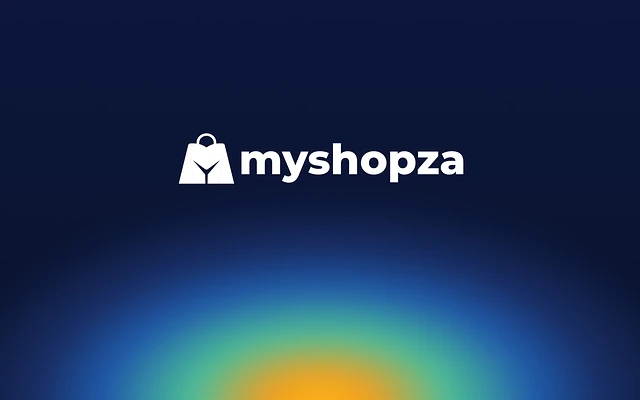
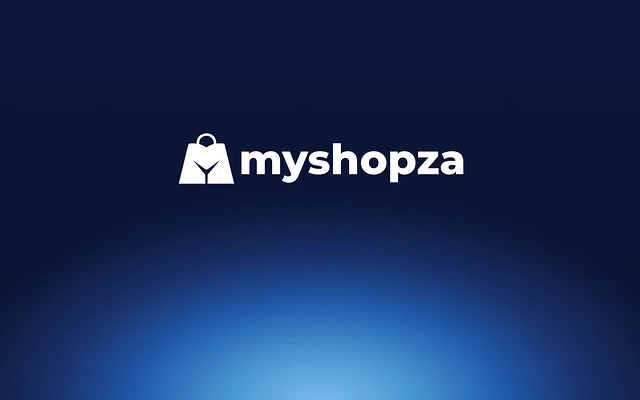
Auto-sync: update 20 file(s)
assets/images/projects/myshopza/cover-info.json assets/images/projects/myshopza/cover.webp assets/images/projects/myshopza/cover@1400.webp assets/images/projects/myshopza/cover@2000.webp assets/images/projects/myshopza/cover@640.webp

Changed region(s): [[0.1875, 0.72, 0.8125, 1.0]]

diff --git a/projects/myshopza.html b/projects/myshopza.html
@@ -258,12 +258,12 @@ symbol .mz-wm .mz-b,symbol .mz-wm .mz-n{fill:var(--lt,#22428d)}symbol .mz-wm .mz
       <p class="cs-outcome"><b>Outcome</b> A logo for Myshopza's e-commerce software: a shopping bag that also reads as an M, delivered with light and dark lockups, app icons and favicons.</p>
       <div class="cs-meta"><span>Logo</span><span>Brand identity</span><span>UX/UI design</span></div>
     </section>
-    <div class="cs-shot" data-slide style="view-transition-name:shot-myshopza;view-transition-class:shot"><img src="/assets/images/projects/myshopza/cover.webp" width="3840" height="2400" alt="The white Myshopza logo on deep navy, above a soft glow in the logo colours: blue, green and yellow" fetchpriority="high" decoding="sync" /></div>
+    <div class="cs-shot" data-slide style="view-transition-name:shot-myshopza;view-transition-class:shot"><img src="/assets/images/projects/myshopza/cover.webp" width="3840" height="2400" alt="The white Myshopza logo on deep navy, above a soft blue glow" fetchpriority="high" decoding="sync" /></div>
 
     <!-- The brand presentation -->
     <div class="mz-deck"><section class="mz-sl mz-txt mz-ov"><div class="mz-in"><div><span class="mz-k">Overview</span><h2 class="mz-h">A logo for software that helps <em>businesses sell.</em></h2><p class="mz-p">Myshopza is an e-commerce software product: businesses use it to run their online store. The logo had to say "shopping" at a glance, feel approachable to small business owners, and stay sharp from a billboard down to a 16-pixel browser tab.</p><p class="mz-p">The answer is one mark that reads two ways: a shopping bag, and the letter M.</p></div><dl class="mz-facts"><div><dt>Product</dt><dd>Myshopza, e-commerce software</dd></div><div><dt>Scope</dt><dd>Logo, colour palette, lockups, app icons and favicons; UX/UI design for the product</dd></div><div><dt>Deliverables</dt><dd>Horizontal, vertical and symbol logos in light and dark; icon set for iOS, Android and web</dd></div><div><dt>Tools</dt><dd>Adobe Illustrator</dd></div></dl></div><span class="mz-no-g">01</span></section><section class="mz-sl mz-ana-s"><div class="mz-in"><span class="mz-k">The symbol</span><h2 class="mz-h">Read it <em>two ways.</em></h2><div class="mz-ana"><svg class="mz-lg" viewBox="0 0 114.29 112.91" role="img" aria-label="Myshopza symbol"><use href="#lg-s"/></svg></div><p class="mz-call mz-c1"><b>Bag handle</b>The arc on top turns the M into a shopping bag.</p><p class="mz-call mz-c2"><b>Two folds</b>Blue on the left, yellow on the right, crossing like a bag's sides.</p><p class="mz-call mz-c3"><b>Letter M</b>The inner panels meet in a V, the middle of the M.</p><p class="mz-call mz-c4"><b>Four colours</b>One family of colours for many kinds of business.</p></div><span class="mz-no-g">02</span></section><section class="mz-sl mz-txt mz-grid mz-dark"><div class="mz-in"><div class="mz-two"><div><span class="mz-k">Construction</span><h2 class="mz-h">Built on <em>one centre line.</em></h2><ul class="mz-list"><li>The handle is a single arc, centred over the bag.</li><li>Both folds start at the top corners and cross on the centre line.</li><li>The two halves mirror each other, so the M stands straight at any size.</li></ul></div><div></div></div><div class="mz-con"><svg viewBox="-12 -12 138.29 136.91" aria-label="Myshopza symbol on its construction grid"><rect class="mz-gs" x="0" y="0" width="114.29" height="112.91"/><line class="mz-gs" x1="57.15" y1="-8" x2="57.15" y2="121"/><line class="mz-gs" x1="-8" y1="52.19" x2="122" y2="52.19"/><line class="mz-gs" x1="-8" y1="19.64" x2="122" y2="19.64"/>
 <circle class="mz-gd" cx="57.12" cy="19.5" r="18.9"/><line class="mz-gd" x1="24.8" y1="19.64" x2="68.5" y2="56"/><line class="mz-gd" x1="89.47" y1="19.64" x2="45.8" y2="56"/><line class="mz-gd" x1="0" y1="112.91" x2="25.9" y2="52.19"/><line class="mz-gd" x1="114.29" y1="112.91" x2="88.38" y2="52.19"/>
-<use href="#lg-s" x="0" y="0" width="114.29" height="112.91"/><text x="78" y="7">handle arc</text><text x="-11" y="50.5">fold line</text></svg></div></div><span class="mz-no-g">03</span></section><section class="mz-sl mz-txt"><div class="mz-in"><span class="mz-k">Explorations</span><h2 class="mz-h">Three directions, <em>one bag.</em></h2><div class="mz-ex"><figure><figcaption>Direction 1</figcaption><img src="/assets/images/projects/myshopza/explore-1.webp" alt="Explored Myshopza logo direction 1" /></figure><figure><figcaption>Direction 2</figcaption><img src="/assets/images/projects/myshopza/explore-2.webp" alt="Explored Myshopza logo direction 2" /></figure><figure><figcaption>Direction 3</figcaption><img src="/assets/images/projects/myshopza/explore-3.webp" alt="Explored Myshopza logo direction 3" /></figure><figure class="mz-fin"><figcaption>Final</figcaption><svg class="mz-lg" viewBox="0 0 444.25 91.35" role="img" aria-label="Myshopza logo"><use href="#lg-h"/></svg></figure></div></div><span class="mz-no-g">04</span></section><section class="mz-sl mz-txt mz-wmk"><div class="mz-in"><span class="mz-k">Wordmark</span><h2 class="mz-h">Lowercase, round and <em>easy to say.</em></h2><svg class="mz-lg" viewBox="0 0 444.25 91.35" role="img" aria-label="Myshopza wordmark and tagline"><use href="#lg-h"/></svg><div class="mz-spec"><div><b>myshop</b>in Shop navy: the platform and the store you own.</div><div><b>za</b>in Sun yellow: the friendly ending people remember.</div><div><b>Tagline</b>Smart e-commerce for every business, set in wide capitals under the name.</div></div></div><span class="mz-no-g">05</span></section><section class="mz-sl mz-txt mz-lks-s"><div class="mz-in"><span class="mz-k">Lockups</span><h2 class="mz-h">One logo, <em>three shapes.</em></h2><div class="mz-lks"><div class="mz-lk"><small>Horizontal</small><svg class="mz-lg mz-lh" viewBox="0 0 444.25 91.35" role="img" aria-label="Myshopza logo"><use href="#lg-h"/></svg></div><div class="mz-lk"><small>Vertical</small><svg class="mz-lg mz-lv" viewBox="0 0 343.91 204.75" role="img" aria-label="Myshopza logo"><use href="#lg-v"/></svg></div><div class="mz-lk"><small>Symbol</small><svg class="mz-lg mz-ls" viewBox="0 0 114.29 112.91" role="img" aria-label="Myshopza symbol"><use href="#lg-s"/></svg></div><div class="mz-lk mz-nv"><small>Horizontal · reverse</small><svg class="mz-lg mz-lh mz-rev" viewBox="0 0 444.25 91.35" role="img" aria-label="Myshopza logo"><use href="#lg-h"/></svg></div><div class="mz-lk mz-nv"><small>Vertical · reverse</small><svg class="mz-lg mz-lv mz-rev" viewBox="0 0 343.91 204.75" role="img" aria-label="Myshopza logo"><use href="#lg-v"/></svg></div><div class="mz-lk"><small>One colour</small><svg class="mz-lg mz-ls mz-mono" viewBox="0 0 114.29 112.91" role="img" aria-label="Myshopza symbol"><use href="#lg-s"/></svg></div></div></div><span class="mz-no-g">06</span></section><section class="mz-sl mz-oc-s"><div class="mz-in"><span class="mz-k">Logo on colour</span><h2 class="mz-h">Works on <em>every brand colour.</em></h2><div class="mz-oc"><div style="background:#fff"><small>On white</small><svg class="mz-lg" viewBox="0 0 444.25 91.35" role="img" aria-label="Myshopza logo"><use href="#lg-h"/></svg></div><div style="background:#22428d;color:#fff"><small>On Shop navy</small><svg class="mz-lg mz-rev" viewBox="0 0 444.25 91.35" role="img" aria-label="Myshopza logo"><use href="#lg-h"/></svg></div><div style="background:#fdb714"><small>On Sun yellow</small><svg class="mz-lg mz-mono" viewBox="0 0 444.25 91.35" role="img" aria-label="Myshopza logo"><use href="#lg-h"/></svg></div><div style="background:#2058a8;color:#fff"><small>On Market blue</small><svg class="mz-lg mz-rev" viewBox="0 0 444.25 91.35" role="img" aria-label="Myshopza logo"><use href="#lg-h"/></svg></div></div></div><span class="mz-no-g">07</span></section><section class="mz-sl mz-txt mz-sws-s"><div class="mz-in"><span class="mz-k">Colour</span><h2 class="mz-h">Seven colours, <em>one family.</em></h2><div class="mz-sws"><div class="mz-sw" style="--c:#22428D"><i></i><b>Shop navy</b><code>#22428D</code><small>RGB 34 · 66 · 141</small><p>Handle, wordmark, dark backgrounds</p></div><div class="mz-sw" style="--c:#2058A8"><i></i><b>Market blue</b><code>#2058A8</code><small>RGB 32 · 88 · 168</small><p>Left fold of the M</p></div><div class="mz-sw mz-lt" style="--c:#4695D1"><i></i><b>Sky</b><code>#4695D1</code><small>RGB 70 · 149 · 209</small><p>Left base of the bag</p></div><div class="mz-sw mz-lt" style="--c:#FDB714"><i></i><b>Sun yellow</b><code>#FDB714</code><small>RGB 253 · 183 · 20</small><p>Right fold and the za</p></div><div class="mz-sw mz-lt" style="--c:#F29A1F"><i></i><b>Orange</b><code>#F29A1F</code><small>RGB 242 · 154 · 31</small><p>Top of the right fold</p></div><div class="mz-sw" style="--c:#008156"><i></i><b>Leaf green</b><code>#008156</code><small>RGB 0 · 129 · 86</small><p>Right inner panel</p></div><div class="mz-sw mz-lt" style="--c:#48BC94"><i></i><b>Mint</b><code>#48BC94</code><small>RGB 72 · 188 · 148</small><p>Right base of the bag</p></div></div></div><span class="mz-no-g">08</span></section><section class="mz-sl mz-txt mz-cs-s"><div class="mz-in"><span class="mz-k">Clear space &amp; size</span><h2 class="mz-h">Give it <em>room to breathe.</em></h2><div class="mz-cs"><div class="mz-box"><span class="mz-x" style="left:0;top:0">x</span><span class="mz-x" style="right:0;top:0">x</span><span class="mz-x" style="left:0;bottom:0">x</span><span class="mz-x" style="right:0;bottom:0">x</span><svg class="mz-lg" viewBox="0 0 444.25 91.35" role="img" aria-label="Myshopza logo"><use href="#lg-h"/></svg></div></div><div class="mz-ms"><div><small>Smallest horizontal</small><svg style="width:120px" class="mz-lg" viewBox="0 0 444.25 91.35" role="img" aria-label="Logo at 120 px"><use href="#lg-h"/></svg><span>120 px wide</span></div><div><small>Smallest symbol</small><span><svg style="width:48px" class="mz-lg" viewBox="0 0 114.29 112.91" role="img" aria-label="Myshopza symbol"><use href="#lg-s"/></svg>48 px</span><span><svg style="width:32px" class="mz-lg" viewBox="0 0 114.29 112.91" role="img" aria-label="Myshopza symbol"><use href="#lg-s"/></svg>32 px</span><span><svg style="width:24px" class="mz-lg" viewBox="0 0 114.29 112.91" role="img" aria-label="Myshopza symbol"><use href="#lg-s"/></svg>24 px</span><span><svg style="width:16px" class="mz-lg" viewBox="0 0 114.29 112.91" role="img" aria-label="Myshopza symbol"><use href="#lg-s"/></svg>16 px</span></div><div><small>Clear space</small><span style="text-align:left">Keep x free on every side, where x is the height of the bag handle.</span></div></div></div><span class="mz-no-g">09</span></section><section class="mz-sl mz-ic-s"><div class="mz-in"><span class="mz-k">Delivered icon set</span><h2 class="mz-h">Sharp at <em>every size.</em></h2><div class="mz-ic"><figure><img src="/assets/images/projects/myshopza/icon-app.webp" alt="Myshopza app icon" loading="lazy" /><figcaption>App icon<small>iOS and Android</small></figcaption></figure><figure><img src="/assets/images/projects/myshopza/icon-adaptive.webp" alt="Myshopza adaptive icon" loading="lazy" /><figcaption>Adaptive icon<small>Android</small></figcaption></figure><figure class="mz-dk"><img src="/assets/images/projects/myshopza/icon-dark.webp" alt="Myshopza dark icon" loading="lazy" /><figcaption>Dark icon<small>Web app and iOS</small></figcaption></figure><figure class="mz-dk"><img src="/assets/images/projects/myshopza/icon-push.webp" alt="Myshopza notification icon" loading="lazy" /><figcaption>Notification icon<small>Android, one colour</small></figcaption></figure><figure><div class="mz-fav"><span><img src="/assets/images/projects/myshopza/favicon-48.webp" width="48" height="48" alt="Myshopza favicon at 48 pixels" loading="lazy" />48 px</span><span><img src="/assets/images/projects/myshopza/favicon-32.webp" width="32" height="32" alt="Myshopza favicon at 32 pixels" loading="lazy" />32 px</span><span><img src="/assets/images/projects/myshopza/favicon-16.webp" width="16" height="16" alt="Myshopza favicon at 16 pixels" loading="lazy" />16 px</span></div><figcaption>Favicons<small>Browser tabs at true size</small></figcaption></figure></div></div><span class="mz-no-g">10</span></section><section class="mz-sl mz-dark mz-sec"><div class="mz-in"><span class="mz-k">In use</span><h2 class="mz-h">The brand across the product, <em>the office and the street.</em></h2><p class="mz-p">Mockups. The website and checkout screens are concept designs made to show the logo in the product.</p></div></section><figure class="mz-pf"><img src="/assets/images/projects/myshopza/mock-phone.webp" alt="Myshopza mockup: App · Splash screen" loading="lazy" /><figcaption>App · Splash screen</figcaption></figure><figure class="mz-pf"><img src="/assets/images/projects/myshopza/mock-laptop.webp" alt="Myshopza mockup: Web · Product website (concept)" loading="lazy" /><figcaption>Web · Product website (concept)</figcaption></figure><figure class="mz-pf"><img src="/assets/images/projects/myshopza/mock-tablet.webp" alt="Myshopza mockup: Point of sale · Checkout (concept)" loading="lazy" /><figcaption>Point of sale · Checkout (concept)</figcaption></figure><figure class="mz-pf"><img src="/assets/images/projects/myshopza/mock-wall.webp" alt="Myshopza mockup: Office · Reception wall" loading="lazy" /><figcaption>Office · Reception wall</figcaption></figure><figure class="mz-pf"><img src="/assets/images/projects/myshopza/mock-cards.webp" alt="Myshopza mockup: Print · Business cards" loading="lazy" /><figcaption>Print · Business cards</figcaption></figure><figure class="mz-pf"><img src="/assets/images/projects/myshopza/mock-tshirt.webp" alt="Myshopza mockup: Team · T-shirt" loading="lazy" /><figcaption>Team · T-shirt</figcaption></figure><div class="mz-pf2"><figure class="mz-pf"><img src="/assets/images/projects/myshopza/mock-poster.webp" alt="Myshopza mockup: Outdoor · Bus-stop poster" loading="lazy" /><figcaption>Outdoor · Bus-stop poster</figcaption></figure><figure class="mz-pf"><img src="/assets/images/projects/myshopza/mock-badge.webp" alt="Myshopza mockup: Team · ID badge" loading="lazy" /><figcaption>Team · ID badge</figcaption></figure></div><section class="mz-sl mz-bento-s"><div class="mz-in"><span class="mz-k">At a glance</span><h2 class="mz-h">The Myshopza <em>identity.</em></h2></div><div class="mz-bento"><div class="mz-b1"><svg class="mz-lg mz-rev" viewBox="0 0 343.91 204.75" role="img" aria-label="Myshopza logo"><use href="#lg-v"/></svg></div><div class="mz-b2"><svg class="mz-lg mz-mono" viewBox="0 0 114.29 112.91" role="img" aria-label="Myshopza symbol"><use href="#lg-s"/></svg></div><div class="mz-b3"><svg class="mz-lg" viewBox="0 0 444.25 91.35" role="img" aria-label="Myshopza logo"><use href="#lg-h"/></svg></div><div class="mz-b4"></div><div class="mz-b5"><svg class="mz-lg mz-rev" viewBox="0 0 114.29 112.91" role="img" aria-label="Myshopza symbol"><use href="#lg-s"/></svg><svg class="mz-lg mz-rev" viewBox="0 0 114.29 112.91" role="img" aria-label="Myshopza symbol"><use href="#lg-s"/></svg><svg class="mz-lg mz-rev" viewBox="0 0 114.29 112.91" role="img" aria-label="Myshopza symbol"><use href="#lg-s"/></svg><svg class="mz-lg mz-rev" viewBox="0 0 114.29 112.91" role="img" aria-label="Myshopza symbol"><use href="#lg-s"/></svg><svg class="mz-lg mz-rev" viewBox="0 0 114.29 112.91" role="img" aria-label="Myshopza symbol"><use href="#lg-s"/></svg><svg class="mz-lg mz-rev" viewBox="0 0 114.29 112.91" role="img" aria-label="Myshopza symbol"><use href="#lg-s"/></svg><svg class="mz-lg mz-rev" viewBox="0 0 114.29 112.91" role="img" aria-label="Myshopza symbol"><use href="#lg-s"/></svg><svg class="mz-lg mz-rev" viewBox="0 0 114.29 112.91" role="img" aria-label="Myshopza symbol"><use href="#lg-s"/></svg><svg class="mz-lg mz-rev" viewBox="0 0 114.29 112.91" role="img" aria-label="Myshopza symbol"><use href="#lg-s"/></svg><svg class="mz-lg mz-rev" viewBox="0 0 114.29 112.91" role="img" aria-label="Myshopza symbol"><use href="#lg-s"/></svg></div></div><span class="mz-no-g">11</span></section><!-- UX PRESENTATION: replace this slide with the Myshopza UX case study when it is ready --><section class="mz-sl mz-dark mz-sec mz-ux" data-sec="ux"><div class="mz-in"><span class="mz-k">UX/UI design · Coming soon</span><h2 class="mz-h">The product experience, <em>next.</em></h2><p class="mz-p">I also worked on the UX of the Myshopza product. The full UX case study, from research to final screens, will be added to this page soon.</p></div></section><section class="mz-sl mz-cov mz-end"><svg class="mz-lg mz-rev" viewBox="0 0 343.91 204.75" role="img" aria-label="Myshopza logo"><use href="#lg-v"/></svg><p class="mz-ty">Thank you<small>Myshopza · Brand identity</small></p></section></div>
+<use href="#lg-s" x="0" y="0" width="114.29" height="112.91"/><text x="78" y="7">handle arc</text><text x="-11" y="50.5">fold line</text></svg></div></div><span class="mz-no-g">03</span></section><section class="mz-sl mz-txt"><div class="mz-in"><span class="mz-k">Explorations</span><h2 class="mz-h">Three directions, <em>one bag.</em></h2><div class="mz-ex"><figure><figcaption>Direction 1</figcaption><img src="/assets/images/projects/myshopza/explore-1.webp" alt="Explored Myshopza logo direction 1" /></figure><figure><figcaption>Direction 2</figcaption><img src="/assets/images/projects/myshopza/explore-2.webp" alt="Explored Myshopza logo direction 2" /></figure><figure><figcaption>Direction 3</figcaption><img src="/assets/images/projects/myshopza/explore-3.webp" alt="Explored Myshopza logo direction 3" /></figure><figure class="mz-fin"><figcaption>Final</figcaption><svg class="mz-lg" viewBox="0 0 444.25 91.35" role="img" aria-label="Myshopza logo"><use href="#lg-h"/></svg></figure></div></div><span class="mz-no-g">04</span></section><section class="mz-sl mz-txt mz-wmk"><div class="mz-in"><span class="mz-k">Wordmark</span><h2 class="mz-h">Lowercase, round and <em>easy to say.</em></h2><svg class="mz-lg" viewBox="0 0 444.25 91.35" role="img" aria-label="Myshopza wordmark and tagline"><use href="#lg-h"/></svg><div class="mz-spec"><div><b>myshop</b>in Shop navy: the platform and the store you own.</div><div><b>za</b>in Sun yellow: the friendly ending people remember.</div><div><b>Tagline</b>Smart e-commerce for every business, set in wide capitals under the name.</div></div></div><span class="mz-no-g">05</span></section><section class="mz-sl mz-txt mz-lks-s"><div class="mz-in"><span class="mz-k">Lockups</span><h2 class="mz-h">One logo, <em>three shapes.</em></h2><div class="mz-lks"><div class="mz-lk"><small>Horizontal</small><svg class="mz-lg mz-lh" viewBox="0 0 444.25 91.35" role="img" aria-label="Myshopza logo"><use href="#lg-h"/></svg></div><div class="mz-lk"><small>Vertical</small><svg class="mz-lg mz-lv" viewBox="0 0 343.91 204.75" role="img" aria-label="Myshopza logo"><use href="#lg-v"/></svg></div><div class="mz-lk"><small>Symbol</small><svg class="mz-lg mz-ls" viewBox="0 0 114.29 112.91" role="img" aria-label="Myshopza symbol"><use href="#lg-s"/></svg></div><div class="mz-lk mz-nv"><small>Horizontal · reverse</small><svg class="mz-lg mz-lh mz-rev" viewBox="0 0 444.25 91.35" role="img" aria-label="Myshopza logo"><use href="#lg-h"/></svg></div><div class="mz-lk mz-nv"><small>Vertical · reverse</small><svg class="mz-lg mz-lv mz-rev" viewBox="0 0 343.91 204.75" role="img" aria-label="Myshopza logo"><use href="#lg-v"/></svg></div><div class="mz-lk"><small>One colour</small><svg class="mz-lg mz-ls mz-mono" viewBox="0 0 114.29 112.91" role="img" aria-label="Myshopza symbol"><use href="#lg-s"/></svg></div></div></div><span class="mz-no-g">06</span></section><section class="mz-sl mz-oc-s"><div class="mz-in"><span class="mz-k">Logo on colour</span><h2 class="mz-h">Works on <em>every brand colour.</em></h2><div class="mz-oc"><div style="background:#fff"><small>On white</small><svg class="mz-lg" viewBox="0 0 444.25 91.35" role="img" aria-label="Myshopza logo"><use href="#lg-h"/></svg></div><div style="background:#22428d;color:#fff"><small>On Shop navy</small><svg class="mz-lg mz-rev" viewBox="0 0 444.25 91.35" role="img" aria-label="Myshopza logo"><use href="#lg-h"/></svg></div><div style="background:#fdb714"><small>On Sun yellow</small><svg class="mz-lg mz-mono" viewBox="0 0 444.25 91.35" role="img" aria-label="Myshopza logo"><use href="#lg-h"/></svg></div><div style="background:#2058a8;color:#fff"><small>On Market blue</small><svg class="mz-lg mz-rev" viewBox="0 0 444.25 91.35" role="img" aria-label="Myshopza logo"><use href="#lg-h"/></svg></div></div></div><span class="mz-no-g">07</span></section><section class="mz-sl mz-txt mz-sws-s"><div class="mz-in"><span class="mz-k">Colour</span><h2 class="mz-h">Seven colours, <em>one family.</em></h2><div class="mz-sws"><div class="mz-sw" style="--c:#22428D"><i></i><b>Shop navy</b><code>#22428D</code><small>RGB 34 · 66 · 141</small><p>Handle, wordmark, dark backgrounds</p></div><div class="mz-sw" style="--c:#2058A8"><i></i><b>Market blue</b><code>#2058A8</code><small>RGB 32 · 88 · 168</small><p>Left fold of the M</p></div><div class="mz-sw mz-lt" style="--c:#4695D1"><i></i><b>Sky</b><code>#4695D1</code><small>RGB 70 · 149 · 209</small><p>Left base of the bag</p></div><div class="mz-sw mz-lt" style="--c:#FDB714"><i></i><b>Sun yellow</b><code>#FDB714</code><small>RGB 253 · 183 · 20</small><p>Right fold and the za</p></div><div class="mz-sw mz-lt" style="--c:#F29A1F"><i></i><b>Orange</b><code>#F29A1F</code><small>RGB 242 · 154 · 31</small><p>Top of the right fold</p></div><div class="mz-sw" style="--c:#008156"><i></i><b>Leaf green</b><code>#008156</code><small>RGB 0 · 129 · 86</small><p>Right inner panel</p></div><div class="mz-sw mz-lt" style="--c:#48BC94"><i></i><b>Mint</b><code>#48BC94</code><small>RGB 72 · 188 · 148</small><p>Right base of the bag</p></div></div></div><span class="mz-no-g">08</span></section><section class="mz-sl mz-txt mz-cs-s"><div class="mz-in"><span class="mz-k">Clear space &amp; size</span><h2 class="mz-h">Give it <em>room to breathe.</em></h2><div class="mz-cs"><div class="mz-box"><span class="mz-x" style="left:0;top:0">x</span><span class="mz-x" style="right:0;top:0">x</span><span class="mz-x" style="left:0;bottom:0">x</span><span class="mz-x" style="right:0;bottom:0">x</span><svg class="mz-lg" viewBox="0 0 444.25 91.35" role="img" aria-label="Myshopza logo"><use href="#lg-h"/></svg></div></div><div class="mz-ms"><div><small>Smallest horizontal</small><svg style="width:120px" class="mz-lg" viewBox="0 0 444.25 91.35" role="img" aria-label="Logo at 120 px"><use href="#lg-h"/></svg><span>120 px wide</span></div><div><small>Smallest symbol</small><span><svg style="width:48px" class="mz-lg" viewBox="0 0 114.29 112.91" role="img" aria-label="Myshopza symbol"><use href="#lg-s"/></svg>48 px</span><span><svg style="width:32px" class="mz-lg" viewBox="0 0 114.29 112.91" role="img" aria-label="Myshopza symbol"><use href="#lg-s"/></svg>32 px</span><span><svg style="width:24px" class="mz-lg" viewBox="0 0 114.29 112.91" role="img" aria-label="Myshopza symbol"><use href="#lg-s"/></svg>24 px</span><span><svg style="width:16px" class="mz-lg" viewBox="0 0 114.29 112.91" role="img" aria-label="Myshopza symbol"><use href="#lg-s"/></svg>16 px</span></div><div><small>Clear space</small><span style="text-align:left">Keep x free on every side, where x is the height of the bag handle.</span></div></div></div><span class="mz-no-g">09</span></section><section class="mz-sl mz-ic-s"><div class="mz-in"><span class="mz-k">Delivered icon set</span><h2 class="mz-h">Sharp at <em>every size.</em></h2><div class="mz-ic"><figure><img src="/assets/images/projects/myshopza/icon-app.webp" alt="Myshopza app icon" loading="lazy" /><figcaption>App icon<small>iOS and Android</small></figcaption></figure><figure><img src="/assets/images/projects/myshopza/icon-adaptive.webp" alt="Myshopza adaptive icon" loading="lazy" /><figcaption>Adaptive icon<small>Android</small></figcaption></figure><figure class="mz-dk"><img src="/assets/images/projects/myshopza/icon-dark.webp" alt="Myshopza dark icon" loading="lazy" /><figcaption>Dark icon<small>Web app and iOS</small></figcaption></figure><figure class="mz-dk"><img src="/assets/images/projects/myshopza/icon-push.webp" alt="Myshopza notification icon" loading="lazy" /><figcaption>Notification icon<small>Android, one colour</small></figcaption></figure><figure><div class="mz-fav"><span><img src="/assets/images/projects/myshopza/favicon-48.webp" width="48" height="48" alt="Myshopza favicon at 48 pixels" loading="lazy" />48 px</span><span><img src="/assets/images/projects/myshopza/favicon-32.webp" width="32" height="32" alt="Myshopza favicon at 32 pixels" loading="lazy" />32 px</span><span><img src="/assets/images/projects/myshopza/favicon-16.webp" width="16" height="16" alt="Myshopza favicon at 16 pixels" loading="lazy" />16 px</span></div><figcaption>Favicons<small>Browser tabs at true size</small></figcaption></figure></div></div><span class="mz-no-g">10</span></section><section class="mz-sl mz-dark mz-sec"><div class="mz-in"><span class="mz-k">In use</span><h2 class="mz-h">The brand across the product, <em>the office and the street.</em></h2><p class="mz-p">Mockups. The website and checkout screens are concept designs made to show the logo in the product.</p></div></section><figure class="mz-pf"><img src="/assets/images/projects/myshopza/mock-metro.webp" alt="Myshopza mockup: Outdoor · Metro posters" loading="lazy" /><figcaption>Outdoor · Metro posters</figcaption></figure><figure class="mz-pf"><img src="/assets/images/projects/myshopza/mock-billboard.webp" alt="Myshopza mockup: Outdoor · Metro billboard" loading="lazy" /><figcaption>Outdoor · Metro billboard</figcaption></figure><figure class="mz-pf"><img src="/assets/images/projects/myshopza/mock-phone.webp" alt="Myshopza mockup: App · Splash screen" loading="lazy" /><figcaption>App · Splash screen</figcaption></figure><figure class="mz-pf"><img src="/assets/images/projects/myshopza/mock-laptop.webp" alt="Myshopza mockup: Web · Product website (concept)" loading="lazy" /><figcaption>Web · Product website (concept)</figcaption></figure><figure class="mz-pf"><img src="/assets/images/projects/myshopza/mock-tablet.webp" alt="Myshopza mockup: Dashboard · Merchant app (concept)" loading="lazy" /><figcaption>Dashboard · Merchant app (concept)</figcaption></figure><figure class="mz-pf"><img src="/assets/images/projects/myshopza/mock-stationery.webp" alt="Myshopza mockup: Print · Stationery" loading="lazy" /><figcaption>Print · Stationery</figcaption></figure><div class="mz-pf2"><figure class="mz-pf"><img src="/assets/images/projects/myshopza/mock-badge.webp" alt="Myshopza mockup: Team · ID badge" loading="lazy" /><figcaption>Team · ID badge</figcaption></figure><figure class="mz-pf"><img src="/assets/images/projects/myshopza/mock-tote.webp" alt="Myshopza mockup: Team · Tote bag" loading="lazy" /><figcaption>Team · Tote bag</figcaption></figure></div><section class="mz-sl mz-bento-s"><div class="mz-in"><span class="mz-k">At a glance</span><h2 class="mz-h">The Myshopza <em>identity.</em></h2></div><div class="mz-bento"><div class="mz-b1"><svg class="mz-lg mz-rev" viewBox="0 0 343.91 204.75" role="img" aria-label="Myshopza logo"><use href="#lg-v"/></svg></div><div class="mz-b2"><svg class="mz-lg mz-mono" viewBox="0 0 114.29 112.91" role="img" aria-label="Myshopza symbol"><use href="#lg-s"/></svg></div><div class="mz-b3"><svg class="mz-lg" viewBox="0 0 444.25 91.35" role="img" aria-label="Myshopza logo"><use href="#lg-h"/></svg></div><div class="mz-b4"></div><div class="mz-b5"><svg class="mz-lg mz-rev" viewBox="0 0 114.29 112.91" role="img" aria-label="Myshopza symbol"><use href="#lg-s"/></svg><svg class="mz-lg mz-rev" viewBox="0 0 114.29 112.91" role="img" aria-label="Myshopza symbol"><use href="#lg-s"/></svg><svg class="mz-lg mz-rev" viewBox="0 0 114.29 112.91" role="img" aria-label="Myshopza symbol"><use href="#lg-s"/></svg><svg class="mz-lg mz-rev" viewBox="0 0 114.29 112.91" role="img" aria-label="Myshopza symbol"><use href="#lg-s"/></svg><svg class="mz-lg mz-rev" viewBox="0 0 114.29 112.91" role="img" aria-label="Myshopza symbol"><use href="#lg-s"/></svg><svg class="mz-lg mz-rev" viewBox="0 0 114.29 112.91" role="img" aria-label="Myshopza symbol"><use href="#lg-s"/></svg><svg class="mz-lg mz-rev" viewBox="0 0 114.29 112.91" role="img" aria-label="Myshopza symbol"><use href="#lg-s"/></svg><svg class="mz-lg mz-rev" viewBox="0 0 114.29 112.91" role="img" aria-label="Myshopza symbol"><use href="#lg-s"/></svg><svg class="mz-lg mz-rev" viewBox="0 0 114.29 112.91" role="img" aria-label="Myshopza symbol"><use href="#lg-s"/></svg><svg class="mz-lg mz-rev" viewBox="0 0 114.29 112.91" role="img" aria-label="Myshopza symbol"><use href="#lg-s"/></svg></div></div><span class="mz-no-g">11</span></section><!-- UX PRESENTATION: replace this slide with the Myshopza UX case study when it is ready --><section class="mz-sl mz-dark mz-sec mz-ux" data-sec="ux"><div class="mz-in"><span class="mz-k">UX/UI design · Coming soon</span><h2 class="mz-h">The product experience, <em>next.</em></h2><p class="mz-p">I also worked on the UX of the Myshopza product. The full UX case study, from research to final screens, will be added to this page soon.</p></div></section><section class="mz-sl mz-cov mz-end"><svg class="mz-lg mz-rev" viewBox="0 0 343.91 204.75" role="img" aria-label="Myshopza logo"><use href="#lg-v"/></svg><p class="mz-ty">Thank you<small>Myshopza · Brand identity</small></p></section></div>
     <section class="mz-next"><div data-next-project></div></section>
     </div>
   </main>
